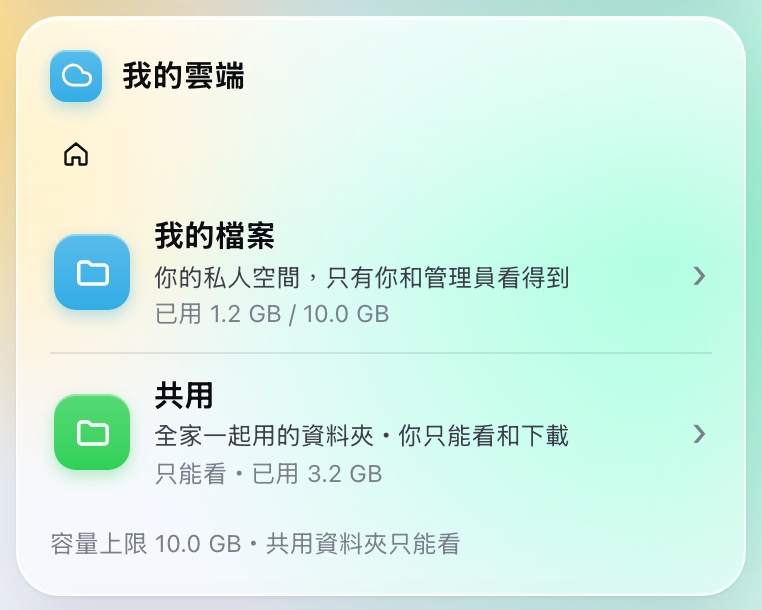
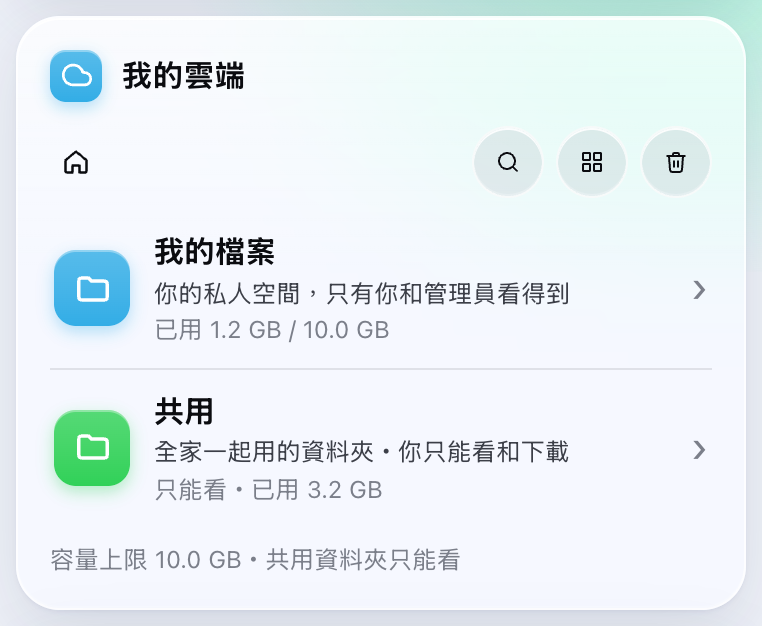
Add cloud drive features, photo backup, large text, messages and speed test to the guide
Claude-Session: https://claude.ai/code/session_019c1PoH7g78f3QWDBGzXFbJ

diff --git a/index.html b/index.html
@@ -86,8 +86,10 @@ footer { text-align: center; color: var(--muted); font-size: 15px; margin-top: 5
   <a href="#sr"><span class="n">4</span>方式 A：Shadowrocket</a>
   <a href="#ts"><span class="n">5</span>方式 B：Tailscale</a>
   <a href="#cloud"><span class="n">6</span>使用「我的雲端」存照片和檔案</a>
-  <a href="#faq"><span class="n">7</span>遇到問題怎麼辦</a>
-  <a href="#safe"><span class="n">8</span>安全小提醒（很重要）</a>
+  <a href="#backup"><span class="n">7</span>iPhone 照片每天自動備份</a>
+  <a href="#more"><span class="n">8</span>其他好用的功能（大字、留言、時數、網速）</a>
+  <a href="#faq"><span class="n">9</span>遇到問題怎麼辦</a>
+  <a href="#safe"><span class="n">10</span>安全小提醒（很重要）</a>
 </div>
 
 <!-- 1 -->
@@ -138,6 +140,7 @@ footer { text-align: center; color: var(--muted); font-size: 15px; margin-top: 5
   <p>在 LINE 或訊息裡，直接點那個網址，iPhone 會用 <b>Safari</b> 打開。</p>
   <figure><img src="img/portal-top.png" alt="我的專屬網頁的最上面，顯示名字、可以使用、使用期限" loading="lazy"><figcaption>打開後會看到你的名字（圖中「王小明」是範例）</figcaption></figure>
   <div class="note ok"><b>看到綠色的「可以使用」就代表一切正常。</b>如果是紅色，請看最下面的<a href="#faq">常見問題</a>。</div>
+  <div class="note tip"><b>字太小看不清楚？</b>按右上角的 <kbd>T</kbd> 就會變成大字，再按一次變回來。詳細請看<a href="#big">大字模式</a>。</div>
 </div></div>
 
 <div class="step"><div class="num">2</div><div class="body">
@@ -273,31 +276,176 @@ footer { text-align: center; color: var(--muted); font-size: 15px; margin-top: 5
   <h3>上傳照片或影片</h3>
   <ol class="simple">
     <li>點 <b>我的檔案</b> 進去</li>
-    <li>按右上角 <kbd>上傳</kbd></li>
+    <li>按藍色的 <kbd>上傳</kbd></li>
     <li>選 <b>照片圖庫</b>，勾選要上傳的照片或影片，按 <kbd>加入</kbd></li>
-    <li>等進度條跑完，就會出現「已上傳」</li>
+    <li>等進度條跑完，就會出現「已上傳」。進度條下面會寫<b>速度</b>和<b>還要多久</b></li>
   </ol>
-  <figure class="wide"><img src="img/portal-drive-files.png" alt="我的檔案裡的資料夾和檔案清單，右上角有上傳和新資料夾按鈕" loading="lazy"></figure>
-  <div class="note warn"><b>上傳時不要關掉網頁</b>影片比較大，要等久一點。上傳到一半離開網頁，就要重新上傳。</div>
+  <figure class="wide"><img src="img/portal-drive-files.png" alt="我的檔案清單，每個檔案下面寫著大小和上傳時間" loading="lazy"><figcaption>每個檔案下面會寫<b>大小</b>和<b>什麼時候上傳的</b>，最下面有總共幾個檔案、佔多少空間</figcaption></figure>
+  <div class="note warn"><b>上傳時不要關掉網頁</b>影片比較大，要等久一點。上傳到一半離開網頁，就要重新上傳。想要每天自動備份，請看<a href="#backup">第 7 步</a>。</div>
 </div></div>
 
 <div class="step"><div class="num">3</div><div class="body">
-  <h3>看照片、下載、改名、刪除</h3>
+  <h3>上面那排小按鈕是做什麼的</h3>
   <ul class="simple">
-    <li><b>點一下照片或影片</b>：直接在手機上看</li>
-    <li><b>點右邊的 ⋯</b>：可以下載、改名、刪除</li>
-    <li><b>新資料夾</b>：幫照片分類，例如「旅行」「孫子」</li>
+    <li>🔍 <b>搜尋</b>：輸入檔名的一部分，例如「生日」，就會找出所有資料夾裡有「生日」的檔案</li>
+    <li>↕ <b>排序</b>：可以照 <b>名稱、上傳時間、修改時間、大小、類型</b> 排。想看最新上傳的，就選「上傳時間」</li>
+    <li>▦ <b>切換顯示方式</b>：在「清單」和「相簿」之間切換。相簿模式會把照片排成格子，像手機的照片 App</li>
+    <li>🗑 <b>垃圾桶</b>：刪掉的東西會先放在這裡（看第 6 個步驟）</li>
   </ul>
-  <figure><img src="img/portal-drive-menu.png" alt="檔案選單有下載、改名、刪除、關閉" loading="lazy"></figure>
-  <div class="note danger"><b>刪除了就救不回來</b>雲端沒有垃圾桶。按「刪除」後還要再按一次確認，請看清楚再按。</div>
+  <figure class="wide"><img src="img/portal-drive-grid.png" alt="相簿模式，照片排成三欄的格子，影片中間有播放鍵" loading="lazy"><figcaption>相簿模式：照片、影片、PDF 都看得到縮圖</figcaption></figure>
+</div></div>
+
+<div class="step"><div class="num">4</div><div class="body">
+  <h3>點一下就能直接看</h3>
+  <p>不用下載，點一下就能在手機上打開：</p>
+  <ul class="simple">
+    <li><b>照片、影片、音樂</b>：直接看、直接播。<b>往左、往右滑</b>可以看上一張、下一張</li>
+    <li><b>PDF、Word、Excel、PowerPoint、Pages、Keynote</b>：會顯示<b>第一頁</b>的樣子。PDF 按 <kbd>打開 PDF</kbd> 可以看全部；Word 檔可以按 <kbd>看文字</kbd> 看全文</li>
+    <li><b>文字檔（.txt）、表格（.csv）</b>：直接顯示內容，CSV 會排成表格</li>
+  </ul>
+  <figure><img src="img/portal-drive-text.png" alt="打開買菜清單.txt，直接顯示文字內容" loading="lazy"><figcaption>文字檔直接顯示內容</figcaption></figure>
+</div></div>
+
+<div class="step"><div class="num">5</div><div class="body">
+  <h3>按 ⋯ 可以做更多事</h3>
+  <p>每個檔案右邊都有 <kbd>⋯</kbd>，按下去會看到：</p>
+  <figure><img src="img/portal-drive-menu.png" alt="檔案選單：預覽、下載、詳細資訊、分享、改名、移動、刪除、關閉" loading="lazy"></figure>
+  <ul class="simple">
+    <li><b>下載</b>：存到手機裡。如果是<b>資料夾</b>，會變成 <b>下載 ZIP</b>，整個資料夾一次下載</li>
+    <li><b>詳細資訊</b>：看檔案多大、什麼時候上傳、照片幾萬畫素、影片多長</li>
+    <li><b>分享</b>：產生一個連結傳給朋友（看下面「分享給別人」）</li>
+    <li><b>改名</b>、<b>移動</b>（搬到別的資料夾）、<b>刪除</b></li>
+  </ul>
+  <figure><img src="img/portal-drive-info.png" alt="詳細資訊：類型、大小、照片尺寸、上傳時間、修改時間、位置" loading="lazy"><figcaption>詳細資訊</figcaption></figure>
+</div></div>
+
+<div class="step"><div class="num">6</div><div class="body">
+  <h3>一次整理很多個檔案</h3>
+  <ol class="simple">
+    <li>按 <kbd>選取</kbd></li>
+    <li>點要整理的檔案，前面會出現藍色的勾勾 ✓（按 <kbd>全選</kbd> 可以一次全部勾）</li>
+    <li>按 <kbd>移動</kbd> 搬到別的資料夾，或按 <kbd>刪除</kbd></li>
+    <li>做完按 <kbd>完成</kbd></li>
+  </ol>
+  <figure class="wide"><img src="img/portal-drive-select.png" alt="選取模式，兩張照片被勾選，上面有全選、移動、刪除、完成" loading="lazy"></figure>
+  <p><b>移動</b>時會跳出資料夾清單：點資料夾進去，到了想放的地方，按 <kbd>移到這裡</kbd>。</p>
+</div></div>
+
+<div class="step"><div class="num">7</div><div class="body">
+  <h3>不小心刪掉了？到垃圾桶救回來</h3>
+  <p>刪掉的檔案<b>不會馬上消失</b>，會在垃圾桶放 <b>30 天</b>，之後才自動清掉。</p>
+  <ol class="simple">
+    <li>按上面那排的 🗑 <b>垃圾桶</b></li>
+    <li>找到要救的檔案，按 <kbd>還原</kbd>，它就會回到原本的資料夾</li>
+  </ol>
+  <figure class="wide"><img src="img/portal-drive-trash.png" alt="垃圾桶裡有一張照片，旁邊有還原和永久刪除按鈕" loading="lazy"></figure>
+  <div class="note danger"><b>垃圾桶裡按 ✕ 或「清空垃圾桶」就真的救不回來了</b>按下去還要再按一次確認，請看清楚再按。</div>
+</div></div>
+
+<div class="step"><div class="num">8</div><div class="body">
+  <h3>分享給別人（對方不用裝 App）</h3>
+  <ol class="simple">
+    <li>在檔案或資料夾按 <kbd>⋯</kbd> → <kbd>分享</kbd></li>
+    <li>選 <b>有效期限</b>（1 天、7 天、30 天、永久）</li>
+    <li>可以限制 <b>最多下載幾次</b>，也可以設 <b>密碼</b></li>
+    <li>按 <kbd>建立連結</kbd>，連結會自動複製好，貼到 LINE 傳給對方就可以了</li>
+  </ol>
+  <figure><img src="img/portal-drive-share.png" alt="分享表單：有效期限、下載次數上限、密碼" loading="lazy"></figure>
+  <div class="note tip"><b>對方打開會看到什麼？</b>一個只能看和下載的網頁，看不到你其他的檔案。分享資料夾的話，對方可以按「全部下載（ZIP）」。時間到、次數用完，或管理員取消，連結就會失效。</div>
+  <div class="note warn"><b>有設密碼的話，密碼要另外告訴對方</b>不要把密碼和連結貼在同一則訊息裡。</div>
 </div></div>
 
 <!-- 7 -->
-<h2 id="faq">7. 遇到問題怎麼辦</h2>
+<h2 id="backup">7. iPhone 照片每天自動備份</h2>
+<p>用 iPhone <b>內建</b>的「捷徑」App，每天晚上自動把當天拍的照片存到你雲端的「相機備份」資料夾。<b>不用另外下載 App，也不用開 VPN</b>，只要有網路就會備份。</p>
+<div class="step"><div class="num">1</div><div class="body">
+  <h3>先複製你的上傳網址</h3>
+  <p>在<a href="#portal">我的專屬網頁</a>找到 <b>「iPhone 照片自動備份」</b>，按 <kbd>複製上傳網址</kbd>。</p>
+  <figure class="wide"><img src="img/portal-backup.png" alt="iPhone 照片自動備份卡片，有上傳網址和一步一步的說明" loading="lazy"><figcaption>網頁上也有同樣的步驟可以照著做</figcaption></figure>
+</div></div>
+<div class="step"><div class="num">2</div><div class="body">
+  <h3>在「捷徑」App 新增自動化</h3>
+  <ol class="simple">
+    <li>打開 <b>捷徑</b> App（找不到的話，在主畫面往下滑搜尋「捷徑」）</li>
+    <li>按下面的 <kbd>自動化</kbd>，再按右上角 <kbd>＋</kbd></li>
+    <li>選 <b>特定時間</b>，設成每天晚上 <b>11:00</b>，選 <kbd>立即執行</kbd>，按 <kbd>下一步</kbd></li>
+  </ol>
+</div></div>
+<div class="step"><div class="num">3</div><div class="body">
+  <h3>加入三個動作</h3>
+  <ol class="simple">
+    <li>按 <kbd>新增動作</kbd>，搜尋 <b>尋找照片</b>，加入。按「加入過濾條件」，設成 <b>加入日期</b>・<b>是今天</b></li>
+    <li>再搜尋 <b>重複每一項目</b>，加入</li>
+    <li>在「重複」<b>裡面</b>，加入 <b>取得 URL 內容</b>：
+      <ul class="simple">
+        <li>網址：<b>貼上</b>剛剛複製的網址</li>
+        <li>按「顯示更多」，<b>方法</b>選 <kbd>POST</kbd></li>
+        <li><b>要求本文</b>選 <kbd>檔案</kbd>，檔案選 <b>重複項目</b></li>
+        <li><b>標頭</b>按「新增標頭」兩次：<br>
+          第一個：名稱 <code>X-Requested-With</code>，值 <code>portal</code><br>
+          第二個：名稱 <code>X-Filename</code>，值選 <b>重複項目</b> 的 <b>名稱</b>，後面打上 <code>.heic</code><br><span style="font-size:14px;color:#666">（如果「設定 → 相機 → 格式」選的是「最相容」，就改打 <code>.jpg</code>）</span></li>
+      </ul></li>
+  </ol>
+</div></div>
+<div class="step"><div class="num">4</div><div class="body">
+  <h3>試跑一次</h3>
+  <p>按右下角的 ▶ 試跑。第一次 iPhone 會問「允許取用照片嗎？」，按 <kbd>允許</kbd>。跑完到「我的雲端 → 我的檔案 → 相機備份」看看，今天的照片應該都在了。</p>
+  <div class="note ok"><b>重複跑也沒關係</b>已經備份過的同一張照片會自動跳過，不會佔兩份空間。</div>
+  <div class="note warn"><b>容量滿了就會停</b>「我的檔案」滿了以後就存不進去。可以在雲端刪掉舊照片，或用<a href="#msg">留言</a>請管理員加大容量。</div>
+</div></div>
+
+<!-- 8 -->
+<h2 id="more">8. 其他好用的功能</h2>
+
+<div class="step" id="big"><div class="num">1</div><div class="body">
+  <h3>大字模式（給長輩用）</h3>
+  <p>按專屬網頁右上角的 <kbd>T</kbd>，整個網頁的字和按鈕都會變大。這支手機會記住，下次打開還是大字。再按一次 <kbd>T</kbd> 就變回原本的大小。</p>
+  <figure><img src="img/portal-big.png" alt="大字模式的專屬網頁，T 按鈕變成藍色" loading="lazy"><figcaption>開啟後 T 會變成藍色</figcaption></figure>
+</div></div>
+
+<div class="step"><div class="num">2</div><div class="body">
+  <h3>今天還能用多久</h3>
+  <p>如果管理員幫你設了<b>每天可以用多久</b>，網頁上會多一個藍色圓圈「今天還能用」，寫著還剩幾分鐘。</p>
+  <figure class="wide"><img src="img/portal-time.png" alt="三個圓圈：我的雲端、使用期限、今天還能用" loading="lazy"></figure>
+  <ul class="simple">
+    <li>只有<b>真的在用網路</b>的時候才算時間，開著不用不會扣</li>
+    <li>時間用完，當天就連不上，<b>半夜 12 點</b>自動恢復</li>
+    <li>不夠用的話，可以<a href="#msg">留言</a>請管理員加</li>
+  </ul>
+</div></div>
+
+<div class="step" id="msg"><div class="num">3</div><div class="body">
+  <h3>留言給管理員</h3>
+  <p>想延長使用期限、加大雲端容量、增加每天的時數，或是遇到問題，都可以直接在網頁上留言：</p>
+  <ol class="simple">
+    <li>在「留言給管理員」選一個項目，例如 <kbd>加大雲端容量</kbd></li>
+    <li>想補充的話寫在下面的框框（可以不寫）</li>
+    <li>按 <kbd>送出</kbd></li>
+  </ol>
+  <figure class="wide"><img src="img/portal-msg.png" alt="留言給管理員：選項、輸入框、送出按鈕，下面有之前的留言和管理員的回覆" loading="lazy"></figure>
+  <p>管理員的手機會馬上收到通知。他回覆以後，會顯示在「之前的留言」下面，<b>綠色勾勾</b>代表已經處理好了。</p>
+</div></div>
+
+<div class="step"><div class="num">4</div><div class="body">
+  <h3>網速測試</h3>
+  <p>覺得很慢的時候，到網頁最下面的「連線檢查」，按 <b>網速測試</b> 旁邊的 <kbd>開始</kbd>，大約 10 秒就會顯示下載和上傳的速度。</p>
+  <figure class="wide"><img src="img/portal-check.png" alt="連線檢查：IP、連線方式、網速測試結果下載 48 Mbps 上傳 21 Mbps" loading="lazy"></figure>
+  <ul class="simple">
+    <li><b>20 Mbps 以上</b>：很快，看影片沒問題</li>
+    <li><b>5～20 Mbps</b>：一般使用沒問題</li>
+    <li><b>5 Mbps 以下</b>：比較慢，可以換個地方或換 Wi-Fi 試試</li>
+  </ul>
+  <div class="note tip">每測一次大約用掉 15 MB 的網路流量，用行動網路的話不要一直測。</div>
+</div></div>
+
+<!-- 9 -->
+<h2 id="faq">9. 遇到問題怎麼辦</h2>
 <details class="faq"><summary>開了之後上不了網</summary><div>
   <ol class="simple"><li>先把 Shadowrocket（或 Tailscale）的開關<b>關掉再打開</b>。</li><li>還是不行，就先把開關關掉，手機就會恢復正常上網。</li><li>告訴管理員：可能家裡的電腦關機了或網路斷了。</li></ol></div></details>
 <details class="faq"><summary>專屬網頁上寫「權限目前無效」或紅色字</summary><div>
   <ul class="simple"><li><b>不在允許時段</b>：管理員設定了可以使用的時間，時間到了就能用。</li><li><b>已過期</b>：使用期限到了，請問管理員要不要延長。</li><li><b>已停用</b>：管理員暫時關掉了，請問管理員。</li></ul></div></details>
+<details class="faq"><summary>寫「今日時數已用完」</summary><div>
+  你今天可以用的時間用完了，<b>半夜 12 點</b>會自動恢復。急著要用的話，可以<a href="#msg">留言</a>請管理員幫你加時數。</div></details>
 <details class="faq"><summary>專屬網頁打開寫「找不到頁面」或「網址已失效」</summary><div>
   管理員可能幫你換了新的網址（例如為了安全）。請管理員<b>傳新的網址</b>給你，舊的就不要再用了。</div></details>
 <details class="faq"><summary>Shadowrocket 裡「家裡的 Mac」旁邊有紅點</summary><div>
@@ -306,19 +454,30 @@ footer { text-align: center; color: var(--muted); font-size: 15px; margin-top: 5
   管理員可能幫你設了「上網限制」（例如擋廣告、擋某些 App）。在專屬網頁的 <b>上網限制</b> 那一塊可以看到被擋的項目。有需要請問管理員。</div></details>
 <details class="faq"><summary>上傳失敗，寫「超過你的容量上限」</summary><div>
   你的「我的檔案」已經滿了。可以刪掉一些不要的檔案，或請管理員幫你加大容量。</div></details>
+<details class="faq"><summary>照片自動備份沒有跑</summary><div>
+  <ol class="simple"><li>打開「捷徑」App →「自動化」，確認那個自動化有打開，而且選的是「立即執行」。</li>
+  <li>手動按一次 ▶ 試跑，看有沒有出現錯誤訊息。</li>
+  <li>寫「forbidden」：檢查兩個「標頭」的名稱有沒有打錯（大小寫也要一樣）。</li>
+  <li>寫「超過你的容量上限」：雲端滿了，請刪掉舊檔案或請管理員加大容量。</li></ol></div></details>
+<details class="faq"><summary>朋友說分享連結打不開</summary><div>
+  連結可能已經<b>過期</b>、<b>下載次數用完</b>，或是被取消了。重新分享一次，產生新的連結傳給他就好。</div></details>
+<details class="faq"><summary>照片在雲端裡看起來是灰色的、沒有縮圖</summary><div>
+  第一次打開時，家裡的電腦要花幾秒做縮圖，等一下再重新整理就會出現。點開照片一樣可以看。</div></details>
 <details class="faq"><summary>換了新手機怎麼辦？</summary><div>
   在新手機上重新做一次：下載 App → 打開專屬網址 → 按「用 Shadowrocket 開啟」（或用 Tailscale 登入）。雲端裡的檔案都還在，不會不見。</div></details>
 <details class="faq"><summary>可以同時開 Shadowrocket 和 Tailscale 嗎？</summary><div>
   不行，iPhone 一次只能開一個。要用哪個就開哪個。</div></details>
 
-<!-- 8 -->
-<h2 id="safe">8. 安全小提醒</h2>
+<!-- 10 -->
+<h2 id="safe">10. 安全小提醒</h2>
 <div class="card">
   <div class="note danger"><b>🔒 你的專屬網址和 QR code 就像鑰匙</b>拿到的人就能用你的身分連進家裡、看你的雲端。</div>
   <ul class="simple">
     <li><b>不要</b>把專屬網址傳給別人，也不要貼到群組</li>
     <li><b>不要</b>把 Shadowrocket 的 QR code 截圖分享</li>
     <li>如果不小心傳出去了，<b>馬上告訴管理員</b>，他可以幫你換新的，舊的會立刻失效</li>
+    <li><b>不要</b>把「照片自動備份」的上傳網址給別人，拿到的人可以把檔案傳到你的雲端</li>
+    <li>分享連結傳出去以後，拿到連結的人都能下載。重要的檔案記得<b>設密碼</b>、<b>設期限</b></li>
     <li>有人自稱是管理員跟你要密碼或驗證碼，<b>先打電話跟本人確認</b></li>
   </ul>
 </div>
